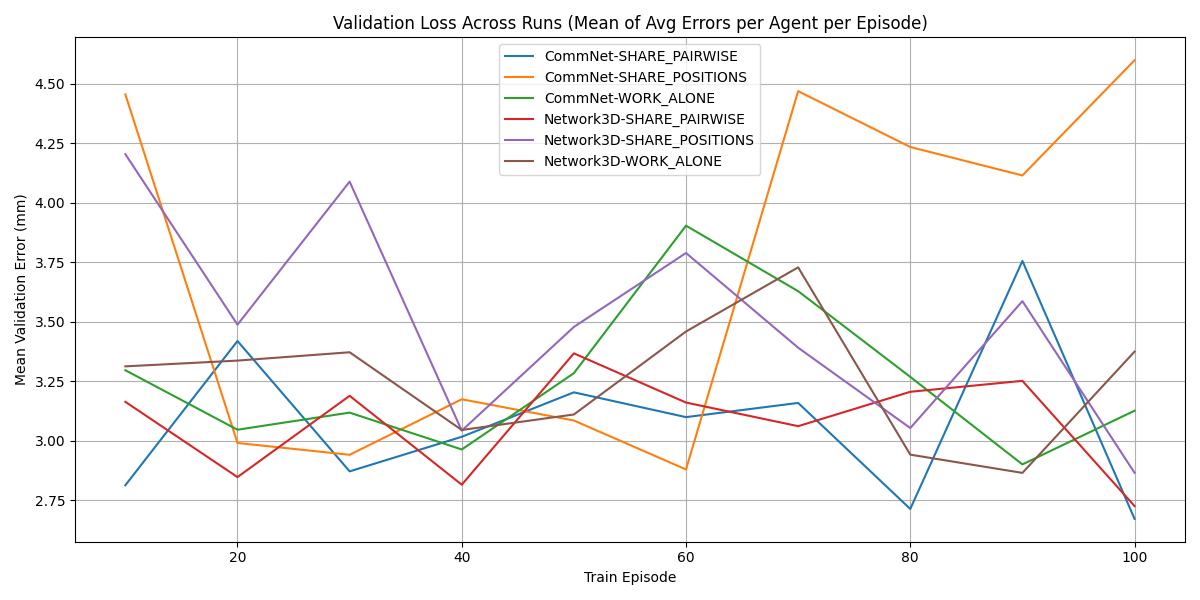
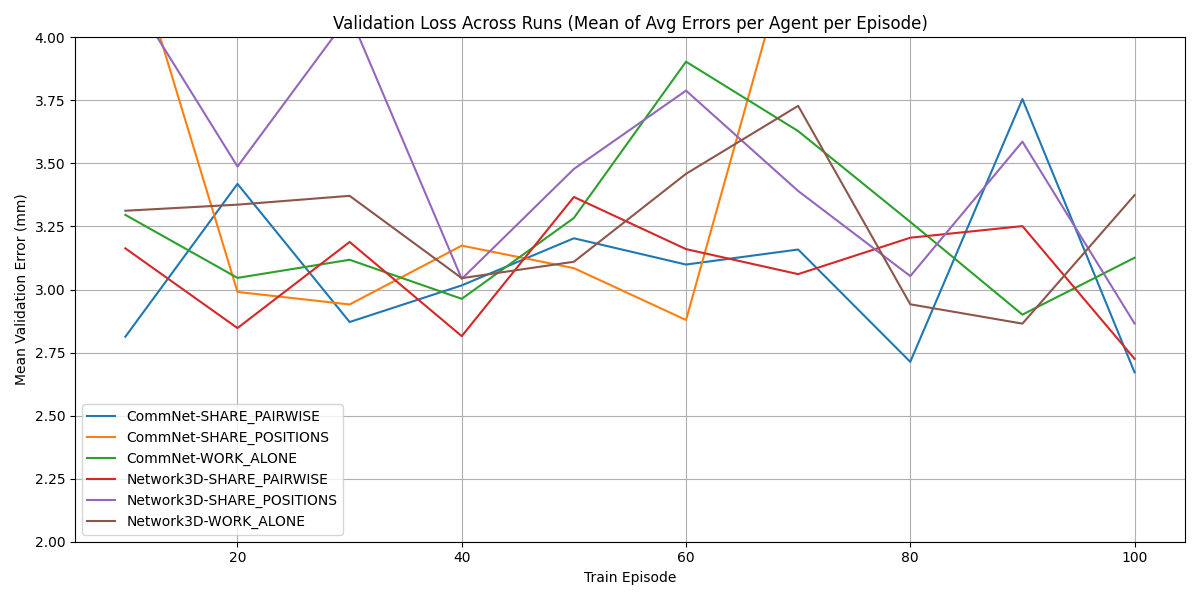
add CPD baseline to eval

diff --git a/utils/visualiser.py b/utils/visualiser.py
@@ -305,6 +305,7 @@ def plot_validation_loss(val_dfs, configs, run_ids, save_path=None, plot_name=No
     plt.title("Validation Loss Across Runs (Mean of Avg Errors per Agent per Episode)")
     plt.xlabel("Train Episode")
     plt.ylabel("Mean Validation Error (mm)")
+    plt.ylim((2,4))
     plt.legend()
     plt.grid(True)
     plt.tight_layout()
@@ -321,8 +322,6 @@ def boxplot_test_errors(val_dfs, configs, run_ids, title_suffix="", save_path=No
     for val_df in val_dfs:
         if 'naive_distance_mm' in val_df.columns:
             val_df = val_df.copy()
-            
-            print(val_df['naive_distance_mm'].dropna().values)
             naive_errors.append(val_df['naive_distance_mm'].dropna().values)
 
     if naive_errors:
@@ -331,6 +330,19 @@ def boxplot_test_errors(val_dfs, configs, run_ids, title_suffix="", save_path=No
         baseline_naive_error = np.mean(naive_errors_all)
     else:
         baseline_naive_error = None
+
+    CPD_errors = []
+    for val_df in val_dfs:
+        if 'CPD_distance_mm' in val_df.columns:
+            val_df = val_df.copy()
+            CPD_errors.append(val_df['CPD_distance_mm'].dropna().values)
+
+    if CPD_errors:
+        # Stack all and compute global mean
+        CPD_errors_all = np.concatenate(CPD_errors)
+        baseline_CPD_error = np.mean(CPD_errors_all)
+    else:
+        baseline_CPD_error = None
     
     for val_df, config, run_id in zip(val_dfs, configs, run_ids):
         if 'avg_err_in_mm' in val_df.columns:
@@ -367,8 +379,11 @@ def boxplot_test_errors(val_dfs, configs, run_ids, title_suffix="", save_path=No
     # Add baseline line if available
     if baseline_naive_error is not None:
         plt.axhline(baseline_naive_error, color='red', linestyle='--', label=f'Baseline Naive Error: {baseline_naive_error:.2f} mm')
-        plt.legend()
-
+        
+    if baseline_CPD_error is not None:
+        plt.axhline(baseline_CPD_error, color='blue', linestyle='--', label=f'Baseline Naive Error: {baseline_CPD_error:.2f} mm')
+    
+    plt.legend()
     plt.ylim((0,12))
     plt.yticks(np.arange(0,13))
     plt.xticks(rotation=45, ha='right')

diff --git a/utils/logger.py b/utils/logger.py
@@ -36,14 +36,14 @@ class MedicalLogger:
     def create_dataframes(self):
         self.debug("Creating new empty DataFrames.")
         self.train_df = pd.DataFrame(columns=["episode", "total_reward", "end_avg_dist", "avg_err_in_mm", "worst_err_in_mm", "avg_closest_point", "avg_furthest_point"])
-        self.val_df = pd.DataFrame(columns=["train_episode", "episode", "total_reward", "end_avg_dist", "avg_err_in_mm", "worst_err_in_mm", "avg_closest_point", "avg_furthest_point", "naive_distance_mm"])
+        self.val_df = pd.DataFrame(columns=["train_episode", "episode", "total_reward", "end_avg_dist", "avg_err_in_mm", "worst_err_in_mm", "avg_closest_point", "avg_furthest_point", "naive_distance_mm", "CPD_distance_mm"])
     def insert_train_row(self, episode, total_reward, end_avg_dist, avg_err_in_mm, worst_err_in_mm, avg_closest_point, avg_furthest_point):
         self.debug(f"Inserting row into train_df: episode={episode}")
         self.train_df.loc[len(self.train_df)] = [episode, total_reward, end_avg_dist, avg_err_in_mm, worst_err_in_mm, avg_closest_point, avg_furthest_point]
 
-    def insert_val_row(self, train_episode, episode, total_reward, end_avg_dist, avg_err_in_mm, worst_err_in_mm, avg_closest_point, avg_furthest_point, naive_distance_mm):
+    def insert_val_row(self, train_episode, episode, total_reward, end_avg_dist, avg_err_in_mm, worst_err_in_mm, avg_closest_point, avg_furthest_point, naive_distance_mm, CPD_distance_mm):
         self.debug(f"Inserting row into val_df: episode={episode}")
-        self.val_df.loc[len(self.val_df)] = [train_episode, episode, total_reward, end_avg_dist, avg_err_in_mm, worst_err_in_mm, avg_closest_point, avg_furthest_point, naive_distance_mm]
+        self.val_df.loc[len(self.val_df)] = [train_episode, episode, total_reward, end_avg_dist, avg_err_in_mm, worst_err_in_mm, avg_closest_point, avg_furthest_point, naive_distance_mm, CPD_distance_mm]
 
     def clear_dataframes(self):
         self.debug("Clearing existing DataFrames.")

diff --git a/bin/Trainer.py b/bin/Trainer.py
@@ -226,6 +226,7 @@ class Trainer:
                     location_data = None
                     next_location_data = None
 
+                CPD_distance_mm = environment.get_curve_error(t_values=np.linspace(0, 1, 100), points=environment._location).mean()
                 closest_point = np.full(self.agents, float('inf'))
                 furthest_point = np.zeros(self.agents)
                 total_reward = 0
@@ -262,6 +263,7 @@ class Trainer:
                 avg_error_mm = environment.get_curve_error(t_values=np.linspace(0, 1, 100), points=environment._location)
                 worst_error_mm = environment.get_curve_error(t_values=np.array([0.5]), points=environment._location)
                 naive_error_mm = environment.get_curve_error(t_values=np.linspace(0, 1, 100), points=environment.midpoint).mean()
+                
                 end_avg_dist = np.mean(current_distances)
                 avg_closest_point = np.mean(closest_point)
                 avg_furthest_point = np.mean(furthest_point)
@@ -270,7 +272,7 @@ class Trainer:
                         f"Final Avg Distance {end_avg_dist:.2f} | Average error in mm {np.round(avg_error_mm,2)} | Worst Error in mm {np.round(worst_error_mm, 2)} "
                         f"Avg Closest Point = {avg_closest_point:.2f} | Avg Furthest Point = {avg_furthest_point:.2f}"
                 )
-                self.logger.insert_val_row(self.current_episode+1, episode+1, total_reward, end_avg_dist, avg_error_mm, worst_error_mm, avg_closest_point, avg_furthest_point, naive_error_mm)
+                self.logger.insert_val_row(self.current_episode+1, episode+1, total_reward, end_avg_dist, avg_error_mm, worst_error_mm, avg_closest_point, avg_furthest_point, naive_error_mm, CPD_distance_mm)
                 
                 evaluation_errors_avg.append(avg_error_mm)
                 evaluation_errors_worst.append(worst_error_mm)

diff --git a/bin/Environment.py b/bin/Environment.py
@@ -101,6 +101,7 @@ class MedicalImageEnvironment(gym.Env):
 
         if self.task != "train":
             self.inferred_gt = self._get_test_starting_point(np.array(self._p0), self.train_landmarks, self.train_ground_truth)
+            self.distance_to_inferred_get = np.linalg.norm(self.inferred_gt - self._ground_truth, axis=1)
         
         self.midpoint = [(self._p0[i] + self._p2[i]) // 2 for i in range(self.agents)]
 

diff --git a/visuals.py b/visuals.py
@@ -5,4 +5,4 @@ from utils.visualiser import visualize_from_logs
 
 logger = logs.setup_logger(False)
 
-visualize_from_logs(logger=logger, experiment='DDQN-enhanced', save_path=c.FIGURE_FOLDER, viz_name="run3")
+visualize_from_logs(logger=logger, experiment='DDQN', save_path=c.FIGURE_FOLDER, viz_name="run2")
